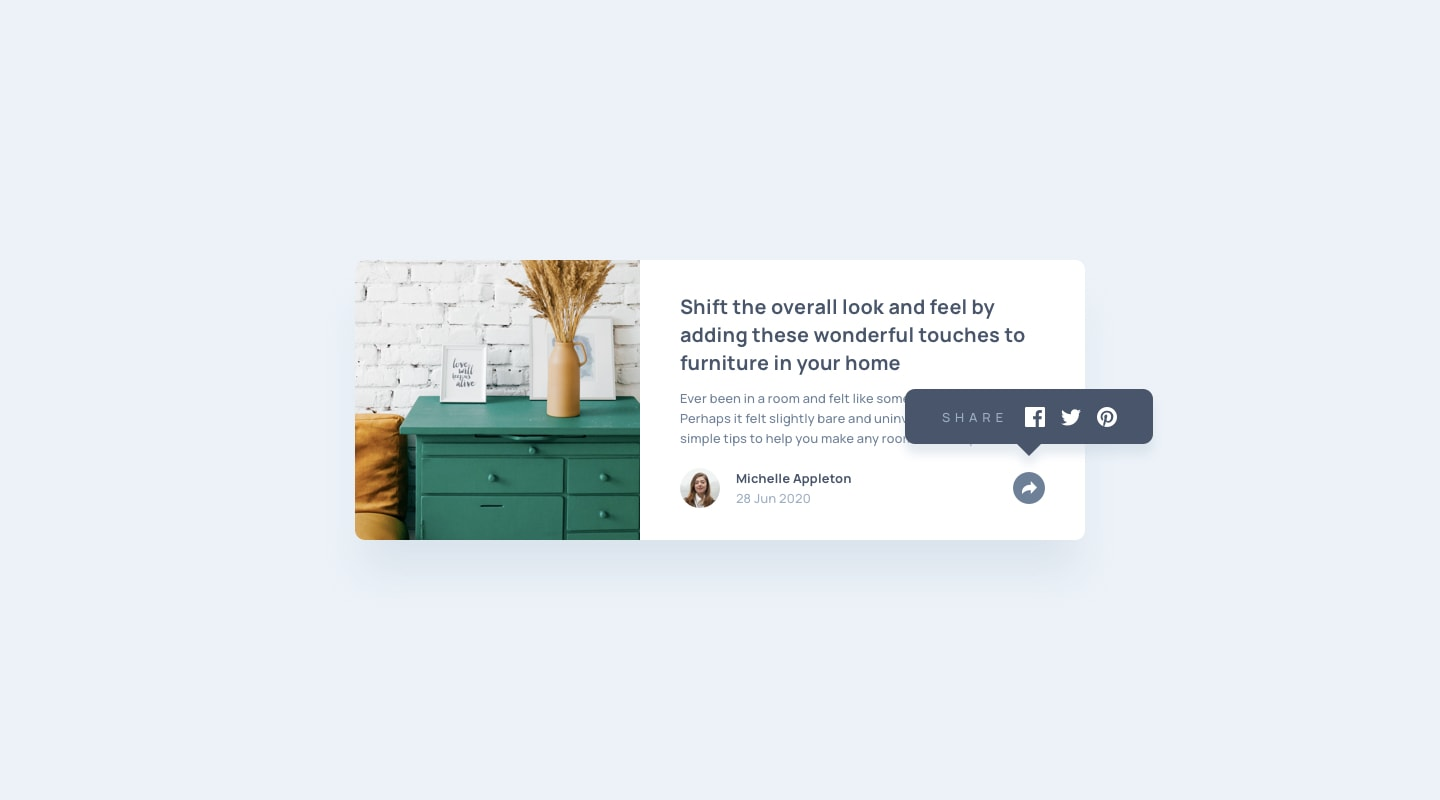
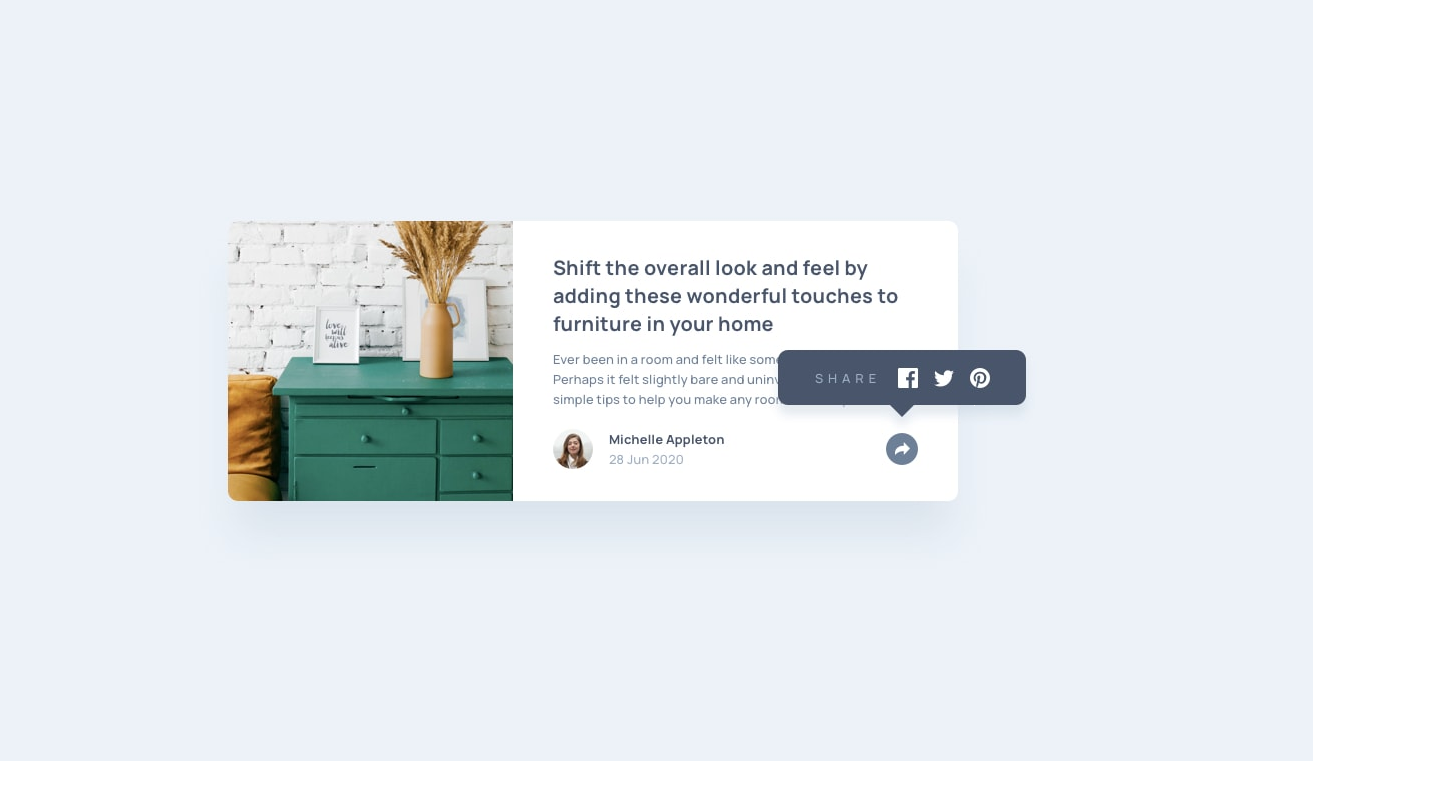
Add the active state

Changed region(s): [[0.1562, 0.25, 0.8125, 0.6875], [0.6875, 0.5938, 0.75, 0.625], [0.1875, 0.2812, 0.2188, 0.3125]]

diff --git a/style/style.scss b/style/style.scss
@@ -16,12 +16,10 @@ img{
     margin-top: 4em;
 }
 
-//TODO: Add the missing colors
 .card{
     display: flex;
     flex-direction: column;
     margin: 0 auto;
-    //! FIX THE MAX WIDTH 
     max-width: $breakpoint-mobile;
     background: white;
     border-radius: 20px;
@@ -43,14 +41,13 @@ img{
     }
 }
 
-//TODO: Add the missing colors
 .info__author{
 
     padding-bottom: 1.5em;
     margin: 0 1.5em;
     .info__author__img{
         display: flex;
-        justify-content: start;
+        justify-content: center;
         align-items: center;
         
     }
@@ -80,10 +77,16 @@ img{
         border-radius: 50%;
         border: none;
         margin-left: 7em;
-
+        /*This was add*/
+        position: relative;
+        z-index: 10;
         &:hover{
             opacity: 0.75;
             cursor: pointer;
+        }
+
+        &:active{
+            background-color: $primaryColor;
         }
     }
 
@@ -91,15 +94,36 @@ img{
         width: 2.4em;
         padding: 0.5em;
         margin-right: 0;
+        
     }
 
-    .hover__share{
-        img, p{
-            display: none;
-        }
-    }
 }
 
+.hover__share{
+    display: flex;
+    align-items: center;
+    justify-content: center;
+    padding: 2.3em 2.5em 2.8em 2.5em;
+    border-radius: 0 0 10px 10px;
+    font-size: 0.8em;
+    letter-spacing: 0.5em;
+    color: $tertiaryColor;
+    background-color: $primaryColor;
+    transition: .5s ease;
+    //! Make it rem or em
+    //transition: .5s ease;
+    margin: 2em -1.9em -2em -1.9em;
+    img{
+        border-radius: 0px 0px 0px 0px;
+        margin-left: 1.5em;
+        transition: .5s ease;
+        &:hover{
+            opacity: 0.75;
+            cursor: pointer;
+        }
+    }
+    // display: none;
+}
 
 @media (min-width: 1000px){
     .card{
@@ -142,7 +166,44 @@ img{
             margin-left: 8em;
         }
     }
+
+    /* Styles for the hover effect that override the author */
+    .hover__share{
+        display: flex;
+        align-items: center;
+        position: absolute;
+        padding: 1.3em 2.5em;
+        border-radius: 10px;
+        font-size: 0.8em;
+        letter-spacing: 0.5em;
+        color: $tertiaryColor;
+        background-color: $primaryColor;
+        top: 50%;
+        left: 76%;
+
+    img{
+        border-radius: 0px 0px 0px 0px;
+        margin-left: 1.5em;
+
+        &:hover{
+            opacity: 0.75;
+            cursor: pointer;
+        }
+    }
+
+    .triangle{
+        width: 20px;
+        height: 20px;
+        position: absolute;
+        top: 43px;
+        left: 112px;
+        background-color: $primaryColor;
+        transform: rotateY(0deg) rotate(45deg);
+    }
+
+    display: none;
+}
 }
 
-.attribution { font-size: 11px; text-align: center; margin-top: 3em;}
+.attribution { font-size: 11px; text-align: center; margin-top: 3em; margin-bottom: 3em;}
 .attribution a { color: hsl(228, 45%, 44%); }

diff --git a/style/style.css b/style/style.css
@@ -62,9 +62,9 @@ img {
   display: -webkit-box;
   display: -ms-flexbox;
   display: flex;
-  -webkit-box-pack: start;
-      -ms-flex-pack: start;
-          justify-content: start;
+  -webkit-box-pack: center;
+      -ms-flex-pack: center;
+          justify-content: center;
   -webkit-box-align: center;
       -ms-flex-align: center;
           align-items: center;
@@ -100,11 +100,18 @@ img {
   border-radius: 50%;
   border: none;
   margin-left: 7em;
+  /*This was add*/
+  position: relative;
+  z-index: 10;
 }
 
 .info__author button:hover {
   opacity: 0.75;
   cursor: pointer;
+}
+
+.info__author button:active {
+  background-color: #48556a;
 }
 
 .info__author .icon__share {
@@ -113,8 +120,37 @@ img {
   margin-right: 0;
 }
 
-.info__author .hover__share img, .info__author .hover__share p {
-  display: none;
+.hover__share {
+  display: -webkit-box;
+  display: -ms-flexbox;
+  display: flex;
+  -webkit-box-align: center;
+      -ms-flex-align: center;
+          align-items: center;
+  -webkit-box-pack: center;
+      -ms-flex-pack: center;
+          justify-content: center;
+  padding: 2.3em 2.5em 2.8em 2.5em;
+  border-radius: 0 0 10px 10px;
+  font-size: 0.8em;
+  letter-spacing: 0.5em;
+  color: #9eafc2;
+  background-color: #48556a;
+  -webkit-transition: .5s ease;
+  transition: .5s ease;
+  margin: 2em -1.9em -2em -1.9em;
+}
+
+.hover__share img {
+  border-radius: 0px 0px 0px 0px;
+  margin-left: 1.5em;
+  -webkit-transition: .5s ease;
+  transition: .5s ease;
+}
+
+.hover__share img:hover {
+  opacity: 0.75;
+  cursor: pointer;
 }
 
 @media (min-width: 1000px) {
@@ -154,12 +190,50 @@ img {
   .card button {
     margin-left: 8em;
   }
+  /* Styles for the hover effect that override the author */
+  .hover__share {
+    display: -webkit-box;
+    display: -ms-flexbox;
+    display: flex;
+    -webkit-box-align: center;
+        -ms-flex-align: center;
+            align-items: center;
+    position: absolute;
+    padding: 1.3em 2.5em;
+    border-radius: 10px;
+    font-size: 0.8em;
+    letter-spacing: 0.5em;
+    color: #9eafc2;
+    background-color: #48556a;
+    top: 50%;
+    left: 76%;
+    display: none;
+  }
+  .hover__share img {
+    border-radius: 0px 0px 0px 0px;
+    margin-left: 1.5em;
+  }
+  .hover__share img:hover {
+    opacity: 0.75;
+    cursor: pointer;
+  }
+  .hover__share .triangle {
+    width: 20px;
+    height: 20px;
+    position: absolute;
+    top: 43px;
+    left: 112px;
+    background-color: #48556a;
+    -webkit-transform: rotateY(0deg) rotate(45deg);
+            transform: rotateY(0deg) rotate(45deg);
+  }
 }
 
 .attribution {
   font-size: 11px;
   text-align: center;
   margin-top: 3em;
+  margin-bottom: 3em;
 }
 
 .attribution a {

diff --git a/index.html b/index.html
@@ -14,7 +14,7 @@
   <div class="container">
     <div class="card">
         <div class="card__image">
-          <img src="images/drawers.jpg" alt="green drawers with flowers">
+          <img src="images/drawers.jpg" alt="green drawers with flowers" title="Image">
         </div>
         
         <div class="article">
@@ -29,30 +29,33 @@
             to help you make any room feel complete.
           </p>
           
+          
+
           <div class="info__author">
+            
             <div class="info__author__img">
               <img class="info__img" src="images/avatar-michelle.jpg" alt="woman photo">
               <div class="column">
                 <span class="name">Michelle Appletons</span>
                 <span class="date">28 Jun 2020</span> 
               </div>
-
               <button class="share--btn">
                 <img class="icon__share" src="images/icon-share.svg" alt="share arrow icon">
-                <div class="hover__share">
-                  <p>Share</p> 
-                  <img src="images/icon-facebook.svg" alt="facebook icon">
-                  <img src="images/icon-twitter.svg" alt="twitter icon">
-                  <img src="images/pinterest.svg" alt="pinterest icon">  
-                </div>
-                
               </button>
-              
+            </div>
+
+            <!-- *Override the info of author -->
+            <div class="hover__share" id="hoverBtn">
+              <p class="share__text">SHARE</p> 
+              <img class="social__icon first__icon" src="images/icon-facebook.svg" alt="facebook icon">
+              <img class="social__icon " src="images/icon-twitter.svg" alt="twitter icon">
+              <img class="social__icon" src="images/icon-pinterest.svg" alt="pinterest icon">  
+              <div class="triangle"></div>
             </div>
             
-            
-            
           </div>
+
+          
         </div>
         
       </div>
@@ -62,5 +65,7 @@
       Challenge by <a href="https://www.frontendmentor.io?ref=challenge" target="_blank">Frontend Mentor</a>. 
       Coded by <a href="#">Your Name Here</a>.
     </div>
+
+    <script src="main.js"></script>
   </body>
   </html>
